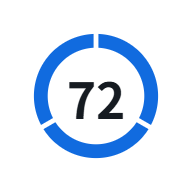
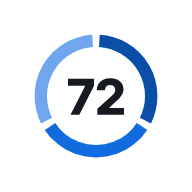
ロゴを B1 に（72 時間の輪を日ごとの青の濃淡、72 は Inter の輪郭で中心に）、t68 のテストを時刻で落ちないように

diff --git a/components/login/Mark72.tsx b/components/login/Mark72.tsx
@@ -1,67 +1,78 @@
 "use client";
-// ログインと役選択の印: 72 時間の輪。発災からの 72 時間を 1 周の輪にし、3 つの切れ目が 24 時間ごとの日。
-// 開いたときに操作の色の輪が一度だけ回って満ちる（12 時から時計回り、1.1 秒）。常時は動かさない。
-// 動きを減らす設定と animate が無い環境では、満ちた形で止める。動画の図「72 時間の輪」と同じ考え（docs/video/MATERIALS.md）。
-// 色は本文色（数字）・薄い本文色（輪の地）・操作の色（満ちる輪）の 3 つだけ。状態の色は使わない（安否の意味ではないため）。
-// still を付けると最初から満ちた形で動かさない（ヘッダーの左上。T66）。画面からは components/brand/BrandMark を通して読む。
+// 作品の印: 72 時間の輪（11/4 に作者が B1 を選んだ。DECISIONS 11/4 13:1x）。発災からの 72 時間を 1 周の輪にし、
+// 3 つの切れ目で 24 時間ごとの日に分け、日ごとに同じ青の濃淡（1 日目がいちばん濃い）で塗る。状態の色は使わない（安否の意味ではないため）。
+// 「72」は Inter（OFL）の 800 の字形を輪郭に起こした図形で、墨の外形の中心を輪の中心に置く（文字で置くと書体の作りで中心がずれる）。
+// 開いたときに 1 日目から順に一度だけ満ちる（12 時から時計回り、合わせて 1.1 秒）。常時は動かさない。
+// 動きを減らす設定と animate が無い環境、still を付けたとき（ヘッダーの左上。T66）は満ちた形で止める。
+// 画面からは components/brand/BrandMark を通して読む。色は globals.css の --mark-d1〜d3（ダークで沈まないように明るくする）。
 
 import { useEffect, useRef } from "react";
 
 const R = 40;
-const CIRC = 2 * Math.PI * R;
-/** 日の切れ目（0・24・48 時間の所）。12 時から時計回りの角度 */
-const DAYS = [0, 120, 240];
+const STROKE = 9;
+/** 日の切れ目の幅（度） */
+const GAP = 7;
+/** 1 日分の弧の長さ */
+const DAY_LEN = ((2 * Math.PI * R) * (120 - GAP)) / 360;
+
+function arcPath(a0: number, a1: number): string {
+  const rad = (d: number) => ((d - 90) * Math.PI) / 180;
+  const p = (a: number) => `${(50 + R * Math.cos(rad(a))).toFixed(2)} ${(50 + R * Math.sin(rad(a))).toFixed(2)}`;
+  return `M${p(a0)} A${R} ${R} 0 0 1 ${p(a1)}`;
+}
+
+/** 3 つの日の弧（12 時から時計回り） */
+export const MARK_DAYS = [0, 120, 240].map((s) => arcPath(s + GAP / 2, s + 120 - GAP / 2));
+
+/** 「72」の輪郭（Inter 800、viewBox 0 0 100 100 の中心に置いた物。scratchpad の logo/tool/make.cjs で作った） */
+export const MARK_DIGITS =
+  "M37.92 63.67L31.53 63.67L42.12 42.67L42.12 42.51L29.73 42.51L29.73 37.48L48.58 37.48L48.58 42.56L37.92 63.67Z" +
+  "M70.27 63.67L50.97 63.67L50.97 59.22L60.49 50.80Q61.58 49.82 62.35 48.98Q63.11 48.15 63.52 47.32Q63.92 46.50 63.92 45.50" +
+  "L63.92 45.50Q63.92 44.41 63.44 43.62Q62.96 42.84 62.12 42.42Q61.29 42.00 60.20 42.00L60.20 42.00Q59.09 42.00 58.26 42.44" +
+  "Q57.44 42.88 56.98 43.72Q56.52 44.56 56.52 45.76L56.52 45.76L50.62 45.76Q50.62 43.11 51.82 41.17Q53.02 39.24 55.19 38.18" +
+  "Q57.35 37.13 60.21 37.13L60.21 37.13Q63.17 37.13 65.35 38.12Q67.54 39.11 68.74 40.90Q69.93 42.68 69.93 45.02L69.93 45.02" +
+  "Q69.93 46.52 69.35 47.97Q68.76 49.42 67.22 51.21Q65.68 53.00 62.83 55.46L62.83 55.46L59.58 58.49L59.58 58.66L70.27 58.66L70.27 63.67Z";
+
+const DAY_COLORS = ["var(--mark-d1)", "var(--mark-d2)", "var(--mark-d3)"];
 
 export function Mark72({ size = 56, still = false, className = "" }: { size?: number; still?: boolean; className?: string }) {
-  const arc = useRef<SVGCircleElement>(null);
+  const arcs = useRef<(SVGPathElement | null)[]>([]);
   useEffect(() => {
-    const el = arc.current;
-    if (!el || still) return;
-    if (typeof el.animate !== "function" || window.matchMedia("(prefers-reduced-motion: reduce)").matches) {
-      el.style.strokeDashoffset = "0";
+    const els = arcs.current.filter((e): e is SVGPathElement => e !== null);
+    if (still || els.length === 0) return;
+    const reduce = window.matchMedia("(prefers-reduced-motion: reduce)").matches;
+    if (reduce || els.some((e) => typeof e.animate !== "function")) {
+      for (const e of els) e.style.strokeDashoffset = "0";
       return;
     }
-    const fill = el.animate([{ strokeDashoffset: CIRC }, { strokeDashoffset: 0 }], {
-      duration: 1100,
-      delay: 120,
-      easing: "cubic-bezier(.2,.7,.2,1)",
-      fill: "both",
-    });
-    return () => fill.cancel();
+    const each = 1100 / els.length;
+    const runs = els.map((e, i) =>
+      e.animate([{ strokeDashoffset: DAY_LEN }, { strokeDashoffset: 0 }], {
+        duration: each,
+        delay: 120 + i * each,
+        easing: i === els.length - 1 ? "cubic-bezier(.2,.7,.2,1)" : "linear",
+        fill: "both",
+      }),
+    );
+    return () => runs.forEach((r) => r.cancel());
   }, [still]);
   return (
     <svg width={size} height={size} viewBox="0 0 100 100" className={className} aria-hidden>
-      {/* 輪の地（薄い本文色の灰色） */}
-      <circle cx="50" cy="50" r={R} fill="none" stroke="var(--muted)" strokeOpacity=".3" strokeWidth="9" />
-      {/* 満ちる輪（操作の色）。最初は空で、開いたときに一度だけ満ちる */}
-      <circle
-        ref={arc}
-        cx="50"
-        cy="50"
-        r={R}
-        fill="none"
-        stroke="var(--accent)"
-        strokeWidth="9"
-        strokeDasharray={CIRC}
-        strokeDashoffset={still ? 0 : CIRC}
-        transform="rotate(-90 50 50)"
-      />
-      {/* 日の切れ目（面の色で輪を切る） */}
-      {DAYS.map((deg) => (
-        <line key={deg} x1="50" y1="4" x2="50" y2="16" stroke="var(--panel)" strokeWidth="3" transform={`rotate(${deg} 50 50)`} />
+      {MARK_DAYS.map((d, i) => (
+        <path
+          key={i}
+          ref={(el) => {
+            arcs.current[i] = el;
+          }}
+          d={d}
+          fill="none"
+          stroke={DAY_COLORS[i]}
+          strokeWidth={STROKE}
+          strokeDasharray={DAY_LEN}
+          strokeDashoffset={still ? 0 : DAY_LEN}
+        />
       ))}
-      <text
-        x="50"
-        y="51"
-        textAnchor="middle"
-        dominantBaseline="central"
-        fontSize="36"
-        fontWeight="700"
-        fill="var(--ink)"
-        style={{ fontFamily: "inherit" }}
-      >
-        72
-      </text>
+      <path d={MARK_DIGITS} fill="var(--ink)" />
     </svg>
   );
 }

diff --git a/lib/intake/t68.test.ts b/lib/intake/t68.test.ts
@@ -130,7 +130,10 @@ describe("住所と位置の手入力（T68 の 1）", () => {
     const l = parseLedger(rows.person.ledger);
     expect(l.basic.address).toEqual({ city: "高知市", town: KOCHI_TOWN });
     expect(l.basic.location).toEqual(POINT);
-    const body = sqlite.prepare("SELECT body FROM timeline_entries WHERE person_id = ?1 ORDER BY created_at DESC, id DESC LIMIT 1").get(pid) as { body: string };
+    // 種の経過の行は本物の時刻で入るので、NOW（固定）より新しくなりうる。直した行だけを見る（時刻で落ちないように）
+    const body = sqlite
+      .prepare("SELECT body FROM timeline_entries WHERE person_id = ?1 AND body LIKE 'ケアマネが直した%' ORDER BY created_at DESC, id DESC LIMIT 1")
+      .get(pid) as { body: string };
     expect(body.body).toBe("ケアマネが直した: 住所・位置");
     // 読み戻した下書きは今の値。同じ値なら何も送らない
     const back = editDraft(await editData());

diff --git a/app/globals.css b/app/globals.css
@@ -69,6 +69,10 @@
   --accent: #116bdf;
   --accent-text: #0065da;
   --on-accent: #ffffff;
+  /* 作品の印（72 時間の輪、components/login/Mark72）の日ごとの青。1 日目がいちばん濃い。状態の色ではない */
+  --mark-d1: #0b4ea6;
+  --mark-d2: #116bdf;
+  --mark-d3: #6fa6ee;
   color-scheme: light;
 }
 
@@ -101,6 +105,10 @@
   --accent: #76b5fb;
   --accent-text: #76b5fb;
   --on-accent: #0b0d10;
+  /* 印の日ごとの青（ダークの地で 1 日目が沈まないように明るくし、濃淡の並びは同じ） */
+  --mark-d1: #2f6fd0;
+  --mark-d2: #4a8ff0;
+  --mark-d3: #8dbbf5;
   color-scheme: dark;
 }
 
